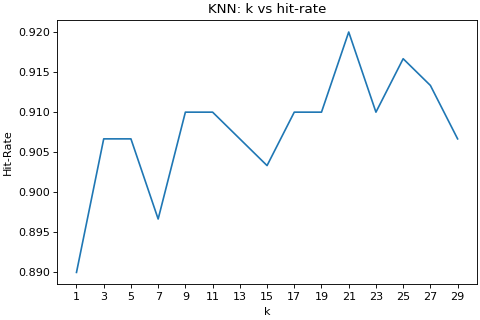
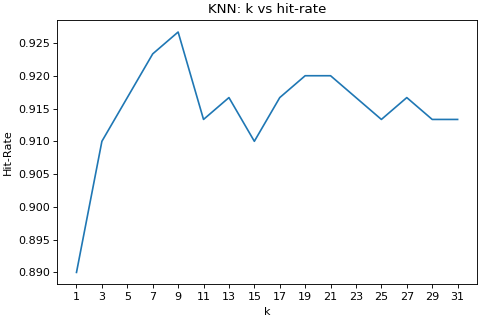
Modified scaling

diff --git a/Practice/Assignments/IS/hw2/algorithms/perceptron.py b/Practice/Assignments/IS/hw2/algorithms/perceptron.py
@@ -2,14 +2,14 @@ import numpy as np
 import random
 
 
-class GdNpNeuron:
+class Perceptron:
 
     def __init__(self, xs, ys):
         random.seed(6)
-        self.xs = xs
-        self.ys = ys
-        self.adjusted_xs = self.get_adjusted_x(xs)
-        self.weights = self.generate_random_coefficients(xs.shape[0])
+        self.xs = np.array(xs).T
+        self.ys = np.array(ys).reshape((len(ys), 1))
+        self.adjusted_xs = self.get_adjusted_x(self.xs)
+        self.weights = self.generate_random_coefficients(self.xs.shape[0])
 
     def equation(self):
         return self.adjusted_xs.T.dot(self.weights)
@@ -22,30 +22,31 @@ class GdNpNeuron:
         return weight_adjustment
 
     def learn(self, epochs, lr):
-        print(f'X:\n{self.adjusted_xs}\nY:\n{self.ys}')
+        # print(f'X:\n{self.adjusted_xs}\nY:\n{self.ys}')
         for epoch in range(epochs):
             fx = self.equation()
             self.weights += lr * self.error_diff(fx)
-            print(f'\nGuess:\n{fx}\nWeights:\n{self.weights}\nError = {self.error(fx)}')
+            print(f'\nGuess:\nfx\nWeights:\n{self.weights}\nError = {self.error(fx)}')
 
     def test(self, x):
-        return self.get_adjusted_x(x).T.dot(self.weights)
+        return self.get_adjusted_x(np.array(x).T).T.dot(self.weights)
 
     @staticmethod
     def get_adjusted_x(x):
+        x = np.array(x)
         ones = np.ones((1, x.shape[1]))
         adjusted_xs = np.append(ones, x, axis=0)
         return adjusted_xs
 
     @staticmethod
     def generate_random_coefficients(num_inputs):
-        return np.random.uniform(-10, 10, (num_inputs + 1, 1))
+        return np.random.uniform(-1, 1, (num_inputs + 1, 1))
 
     @staticmethod
     def generate_random_data(coefficients, data_size):
         # Get randomized Xs
         x = np.random.uniform(-10, 10, (len(coefficients) - 1, data_size))
-        adjusted_x = GdNpNeuron.get_adjusted_x(x)
+        adjusted_x = Perceptron.get_adjusted_x(x)
 
         # Get calculated Ys
         y = adjusted_x.T.dot(coefficients)
@@ -54,19 +55,16 @@ class GdNpNeuron:
 
 
 def main():
-    weights = GdNpNeuron.generate_random_coefficients(2)
-    x, y = GdNpNeuron.generate_random_data(weights, 7)
-    test_x, test_y = GdNpNeuron.generate_random_data(weights, 3)
+    weights = Perceptron.generate_random_coefficients(2)
+    x, y = Perceptron.generate_random_data(weights, 7)
+    test_x, test_y = Perceptron.generate_random_data(weights, 3)
 
     print(f'\nWeights = {weights}')
 
-    neuron = GdNpNeuron(x, y)
+    neuron = Perceptron(x, y)
     neuron.learn(epochs=1000, lr=0.001)
 
     guesses = neuron.test(test_x)
 
     print(f'\nTest: Real = {test_y}\nGuess = {guesses}')
-
-
-main()
 

diff --git a/Practice/Assignments/IS/hw2/algorithms/knn.py b/Practice/Assignments/IS/hw2/algorithms/knn.py
@@ -28,7 +28,7 @@ class KNearestNeighbours:
         return hits / len(predicted)
 
     def get_closest_neighbouring_classes(self, x):
-        k_neighbours_indices = self.get_k_neighbours_indices(x)
+        k_neighbours_indices = self.get_close_neighbours_indices(x)
         classes = [self.y[i] for i in k_neighbours_indices]
         return classes
 
@@ -37,57 +37,10 @@ class KNearestNeighbours:
             return
         return max(neighbours, key=neighbours.count)
 
-    def get_k_neighbours_indices(self, x):
-
-        # Find the standard deviation of the data.
-        standard_deviations = self.get_standard_deviations()
-
-        radius = 1
-
-        while True:
-
-            # From x, create a radius of x - std and x + std
-            ranges = [range(int(x[i] - radius * standard_deviations[i]), int(x[i] + radius * standard_deviations[i])) for i in range(len(standard_deviations))]
-
-            # Find all the points in this radius.
-            points_in_ranges_indices = [i for i in range(len(self.x)) if
-                                        all([int(self.x[i][j]) in ranges[j] for j in range(len(ranges))])]
-
-            # If these points are more than k, stop.
-            if len(points_in_ranges_indices) > self.k:
-                break
-            # Else, radius += std. Find all now.
-            else:
-                radius += 1
-
-        distances = [self.find_distance(x, self.x[i]) for i in points_in_ranges_indices]
-
-        # Pick the shortest k distances and return their indices
-        min_distance_indices = []
-        distances_copy = list(distances)
-        for i in range(self.k):
-            min_distance_index = distances_copy.index(min(distances_copy))
-            min_distance_indices.append(min_distance_index)
-            del distances_copy[min_distance_index]
-            i += 1
-
-        return [points_in_ranges_indices[i] for i in min_distance_indices]
-
-    def get_standard_deviations(self):
-        # Find std for each attribute
-
-        if len(self.x) == 0:
-            return
-
-        stds = []
-
-        for i in range(len(self.x[0])):
-            column = [j[i] for j in self.x]
-            avg = sum(column)//len(column)
-            std = (sum([(avg - i) ** 2 for i in column]) // len(column)) ** 0.5
-            stds.append(int(std))
-
-        return stds
+    def get_close_neighbours_indices(self, x):
+        distances = [self.find_distance(x, xi) for xi in self.x]
+        sorted_distances = sorted(range(len(distances)), key=lambda k: distances[k])[:self.k]
+        return sorted_distances
 
     @staticmethod
     def find_distance(x1, x2):

diff --git a/Practice/Assignments/IS/hw2/neighbourhood_classification.py b/Practice/Assignments/IS/hw2/neighbourhood_classification.py
@@ -5,24 +5,29 @@ from data_manager import DataManager
 def main():
     data_manager = DataManager('hw2_dataProblem.txt')
     data = data_manager.get_data()
+    scaling_function = data_manager.get_scaling_function(data)
+    data = data_manager.get_rescaled_data(data, scaling_function)
+
     grapher = NeighbourhoodClassifier.Grapher()
     fig, axs = grapher.create_figure(1, 1, 1, figsize=(6, 4))
 
-    for radius in range(5, 20):
+    for radius in range(1, 15):
 
+        radius = radius/100
         print(f'Radius = {radius}')
 
         actual_ys = []
         predicted_ys = []
 
-        knn = NeighbourhoodClassifier(radius)
+        radius_classifier = NeighbourhoodClassifier(radius)
 
         for i in range(len(data)):
             train_data = data_manager.remove_rows(data, [i])
-            x, y, x_test, y_test = data_manager.test_train_split(train_data, train_split_percentage=100, randomize=False)
-            knn.load_data(x, y)
+            x, y, x_test, y_test = data_manager.test_train_split(train_data, train_split_percentage=100,
+                                                                 randomize=False)
+            radius_classifier.load_data(x, y)
 
-            predicted_y = knn.classify([data[i][:len(data[i])-1]])
+            predicted_y = radius_classifier.classify([data[i][:len(data[i]) - 1]])
             predicted_ys.append(predicted_y)
 
             actual_y = [data[i][-1]]
@@ -33,7 +38,8 @@ def main():
 
         grapher.record(radius, hit_rate)
 
-    grapher.plot(axs, title='Neighbourhood Classification: Radius vs Hit-Rate', xlabel="Radius", ylabel="Hit-Rate", xticks=grapher.x)
+    grapher.plot(axs, title='Neighbourhood Classification: Radius vs Hit-Rate', xlabel="Radius", ylabel="Hit-Rate",
+                 xticks=grapher.x)
     grapher.save_figure('figures/neighbourhood.png')
     grapher.show()
 

diff --git a/Practice/Assignments/IS/hw2/algorithms/neighbourhood.py b/Practice/Assignments/IS/hw2/algorithms/neighbourhood.py
@@ -3,31 +3,8 @@ from algorithms.knn import KNearestNeighbours
 
 class NeighbourhoodClassifier(KNearestNeighbours):
 
-    def get_k_neighbours_indices(self, x):
-
-        radius = self.k
-
-        # From x, create a radius of x - radius and x + radius
-        ranges = [range(int(x[i] - radius/2), int(x[i] + radius/2)) for i in range(len(x))]
-
-        # Find all the points in this radius.
-        points_in_ranges_indices = [i for i in range(len(self.x)) if
-                                    all([int(self.x[i][j]) in ranges[j] for j in range(len(ranges))])]
-
-        # Find the distances of all points in the square
-        distances = [self.find_distance(x, self.x[i]) for i in points_in_ranges_indices]
-
-        distances = [distance for distance in distances if distance <= radius]
-
-        # print(f"Points = {len(distances)}")
-
-        # Pick the shortest k distances and return their indices
-        min_distance_indices = []
-        distances_copy = list(distances)
-        for i in range(len(distances)):
-            min_distance_index = distances_copy.index(min(distances_copy))
-            min_distance_indices.append(min_distance_index)
-            del distances_copy[min_distance_index]
-            i += 1
-
-        return [points_in_ranges_indices[i] for i in min_distance_indices]
+    def get_close_neighbours_indices(self, x):
+        distances = [self.find_distance(x, xi) for xi in self.x]
+        sorted_distances_indices = sorted(range(len(distances)), key=lambda k: distances[k])
+        points_within_k = [index for index in sorted_distances_indices if distances[index] <= self.k]
+        return points_within_k

diff --git a/Practice/Assignments/IS/hw2/data_manager.py b/Practice/Assignments/IS/hw2/data_manager.py
@@ -20,7 +20,7 @@ class DataManager:
         :param train_split_percentage: percentage out of 100 to be in the training set.
         :return: x_train, y_train, x_test, y_test
         """
-        split_index = int(train_split_percentage/100 * len(data))
+        split_index = int(train_split_percentage / 100 * len(data))
 
         indices = self.get_randomized_indices(0, len(data)) if randomize else [i for i in range(len(data))]
 
@@ -51,4 +51,42 @@ class DataManager:
         for i in range(len(data)):
             if i not in indices:
                 new_data.append(data[i])
+        return new_data
+
+    @staticmethod
+    def get_scaling_function(data):
+        if len(data) == 0:
+            return data
+        new_data = list(data)
+
+        mins = []
+        maxs = []
+
+        for k in range(len(data[0])-1):
+            column = [x[k] for x in data]
+            min_ = min(column)
+            max_ = max(column)
+            mins.append(min_)
+            maxs.append(max_)
+
+        min_ = min(mins)
+        max_ = max(maxs)
+        period = max_ - min_
+
+        def scaled_data(data_x):
+            return (data_x - min_) / period
+        return scaled_data
+
+    @staticmethod
+    def get_rescaled_data(data, scaling_function):
+        """
+        :param scaling_function: Function that scaled x
+        :param data: The unscaled data
+        :return: Scaled data
+        """
+        new_data = list(data)
+        for i in range(len(data)):
+            for j in range(len(data[i])-1):
+                new_data[i][j] = scaling_function(data[i][j])
+
         return new_data

diff --git a/Practice/Assignments/IS/hw2/perceptron_classification.py b/Practice/Assignments/IS/hw2/perceptron_classification.py
@@ -1,0 +1,34 @@
+from algorithms.knn import KNearestNeighbours
+from algorithms.perceptron import Perceptron
+from data_manager import DataManager
+
+
+def main():
+    data_manager = DataManager('hw2_dataProblem.txt')
+    data = data_manager.get_data()
+
+    grapher = KNearestNeighbours.Grapher()
+    fig, axs = grapher.create_figure(1, 1, 1, figsize=(6, 4))
+
+    x_train, y_train, x_test, y_test = data_manager.test_train_split(data)
+
+    perceptron = Perceptron(x_train, y_train)
+    epochs = 1000
+    learning_rate = 0.0000001
+
+    perceptron.learn(epochs, learning_rate)
+
+    predicted_ys = perceptron.test(x_test)
+
+    hit_rate = KNearestNeighbours.get_hit_rate(predicted_ys, y_test)
+    print(f'Hit Rate = {hit_rate}')
+
+    grapher.record(hit_rate, [1])
+
+    grapher.plot(axs, title='Perceptron', xlabel="N", ylabel="Hit-Rate")
+    grapher.save_figure('figures/perceptron.png')
+    grapher.show()
+
+
+if __name__ == "__main__":
+    main()

diff --git a/Practice/Assignments/IS/hw2/knn_classification.py b/Practice/Assignments/IS/hw2/knn_classification.py
@@ -5,10 +5,12 @@ from data_manager import DataManager
 def main():
     data_manager = DataManager('hw2_dataProblem.txt')
     data = data_manager.get_data()
+    data = data_manager.get_rescaled_data(data)
+
     grapher = KNearestNeighbours.Grapher()
     fig, axs = grapher.create_figure(1, 1, 1, figsize=(6, 4))
 
-    for k in range(1, 30, 2):
+    for k in range(1, 32, 2):
 
         print(f'k = {k}')
 
@@ -19,7 +21,8 @@ def main():
 
         for i in range(len(data)):
             train_data = data_manager.remove_rows(data, [i])
-            x, y, x_test, y_test = data_manager.test_train_split(train_data, train_split_percentage=100, randomize=False)
+            x, y, x_test, y_test = data_manager.test_train_split(train_data, train_split_percentage=100,
+                                                                 randomize=False)
             knn.load_data(x, y)
 
             predicted_y = knn.classify([data[i][:len(data[i]) - 1]])
